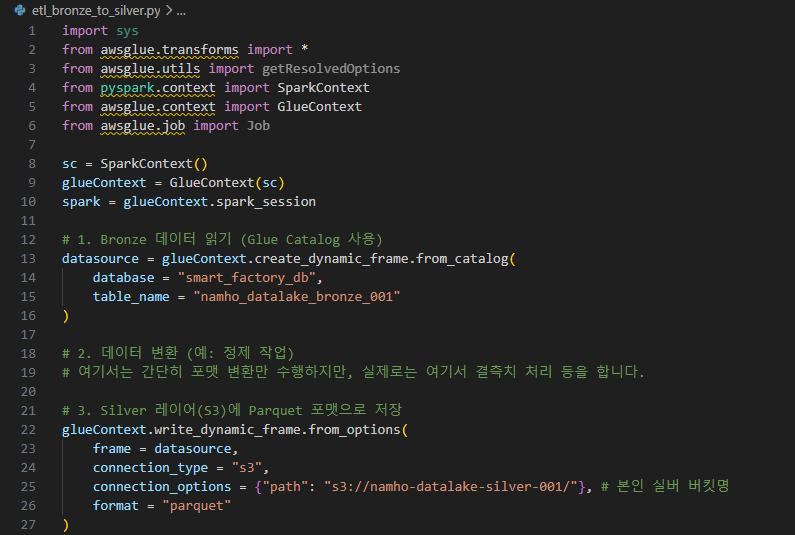
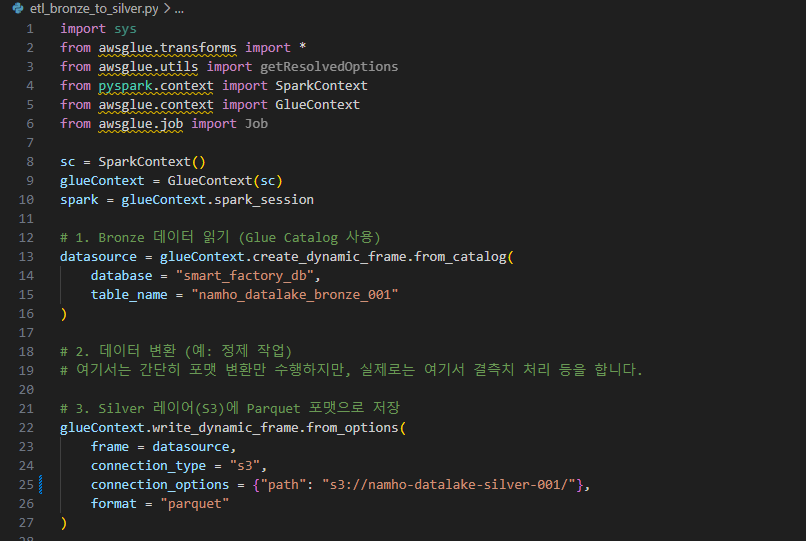
first upload

Changed region(s): [[0.0, 0.0, 0.9358, 1.0]]

diff --git a/etl_bronze_to_silver.py b/etl_bronze_to_silver.py
@@ -22,7 +22,7 @@ datasource = glueContext.create_dynamic_frame.from_catalog(
 glueContext.write_dynamic_frame.from_options(
     frame = datasource,
     connection_type = "s3",
-    connection_options = {"path": "s3://namho-datalake-silver-001/"}, # 본인 실버 버킷명
+    connection_options = {"path": "s3://namho-datalake-silver-001/"},
     format = "parquet"
 )
 
